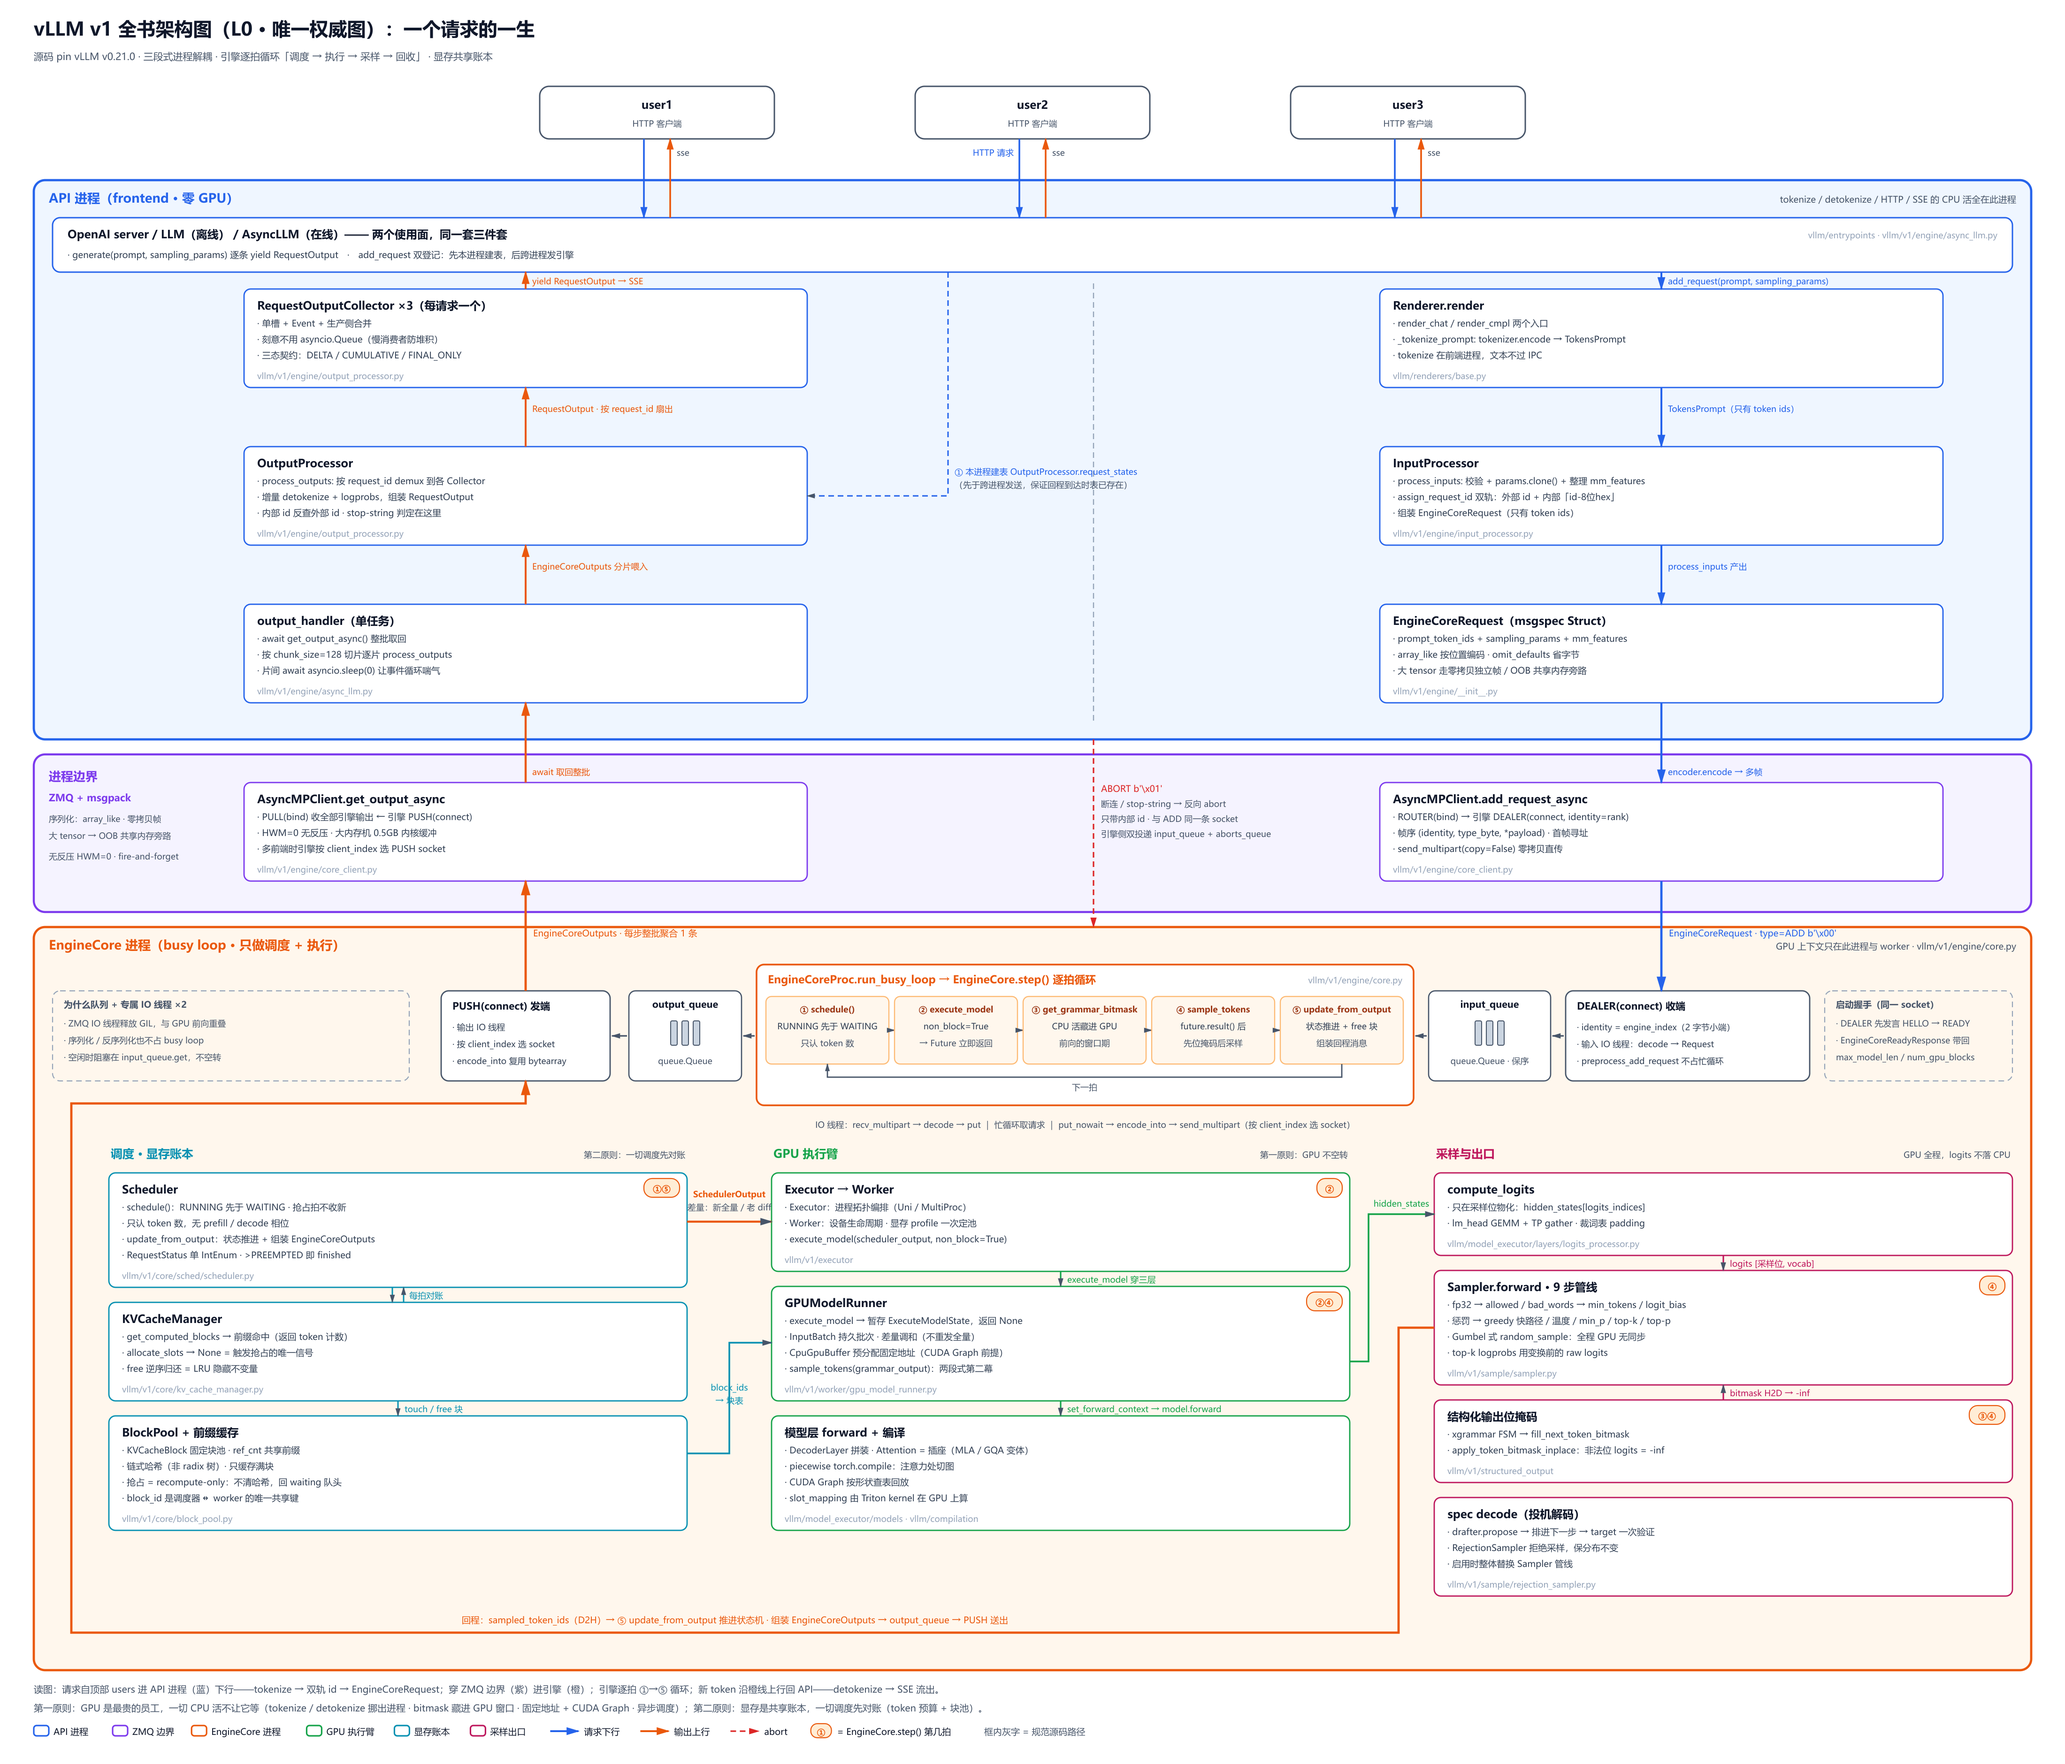
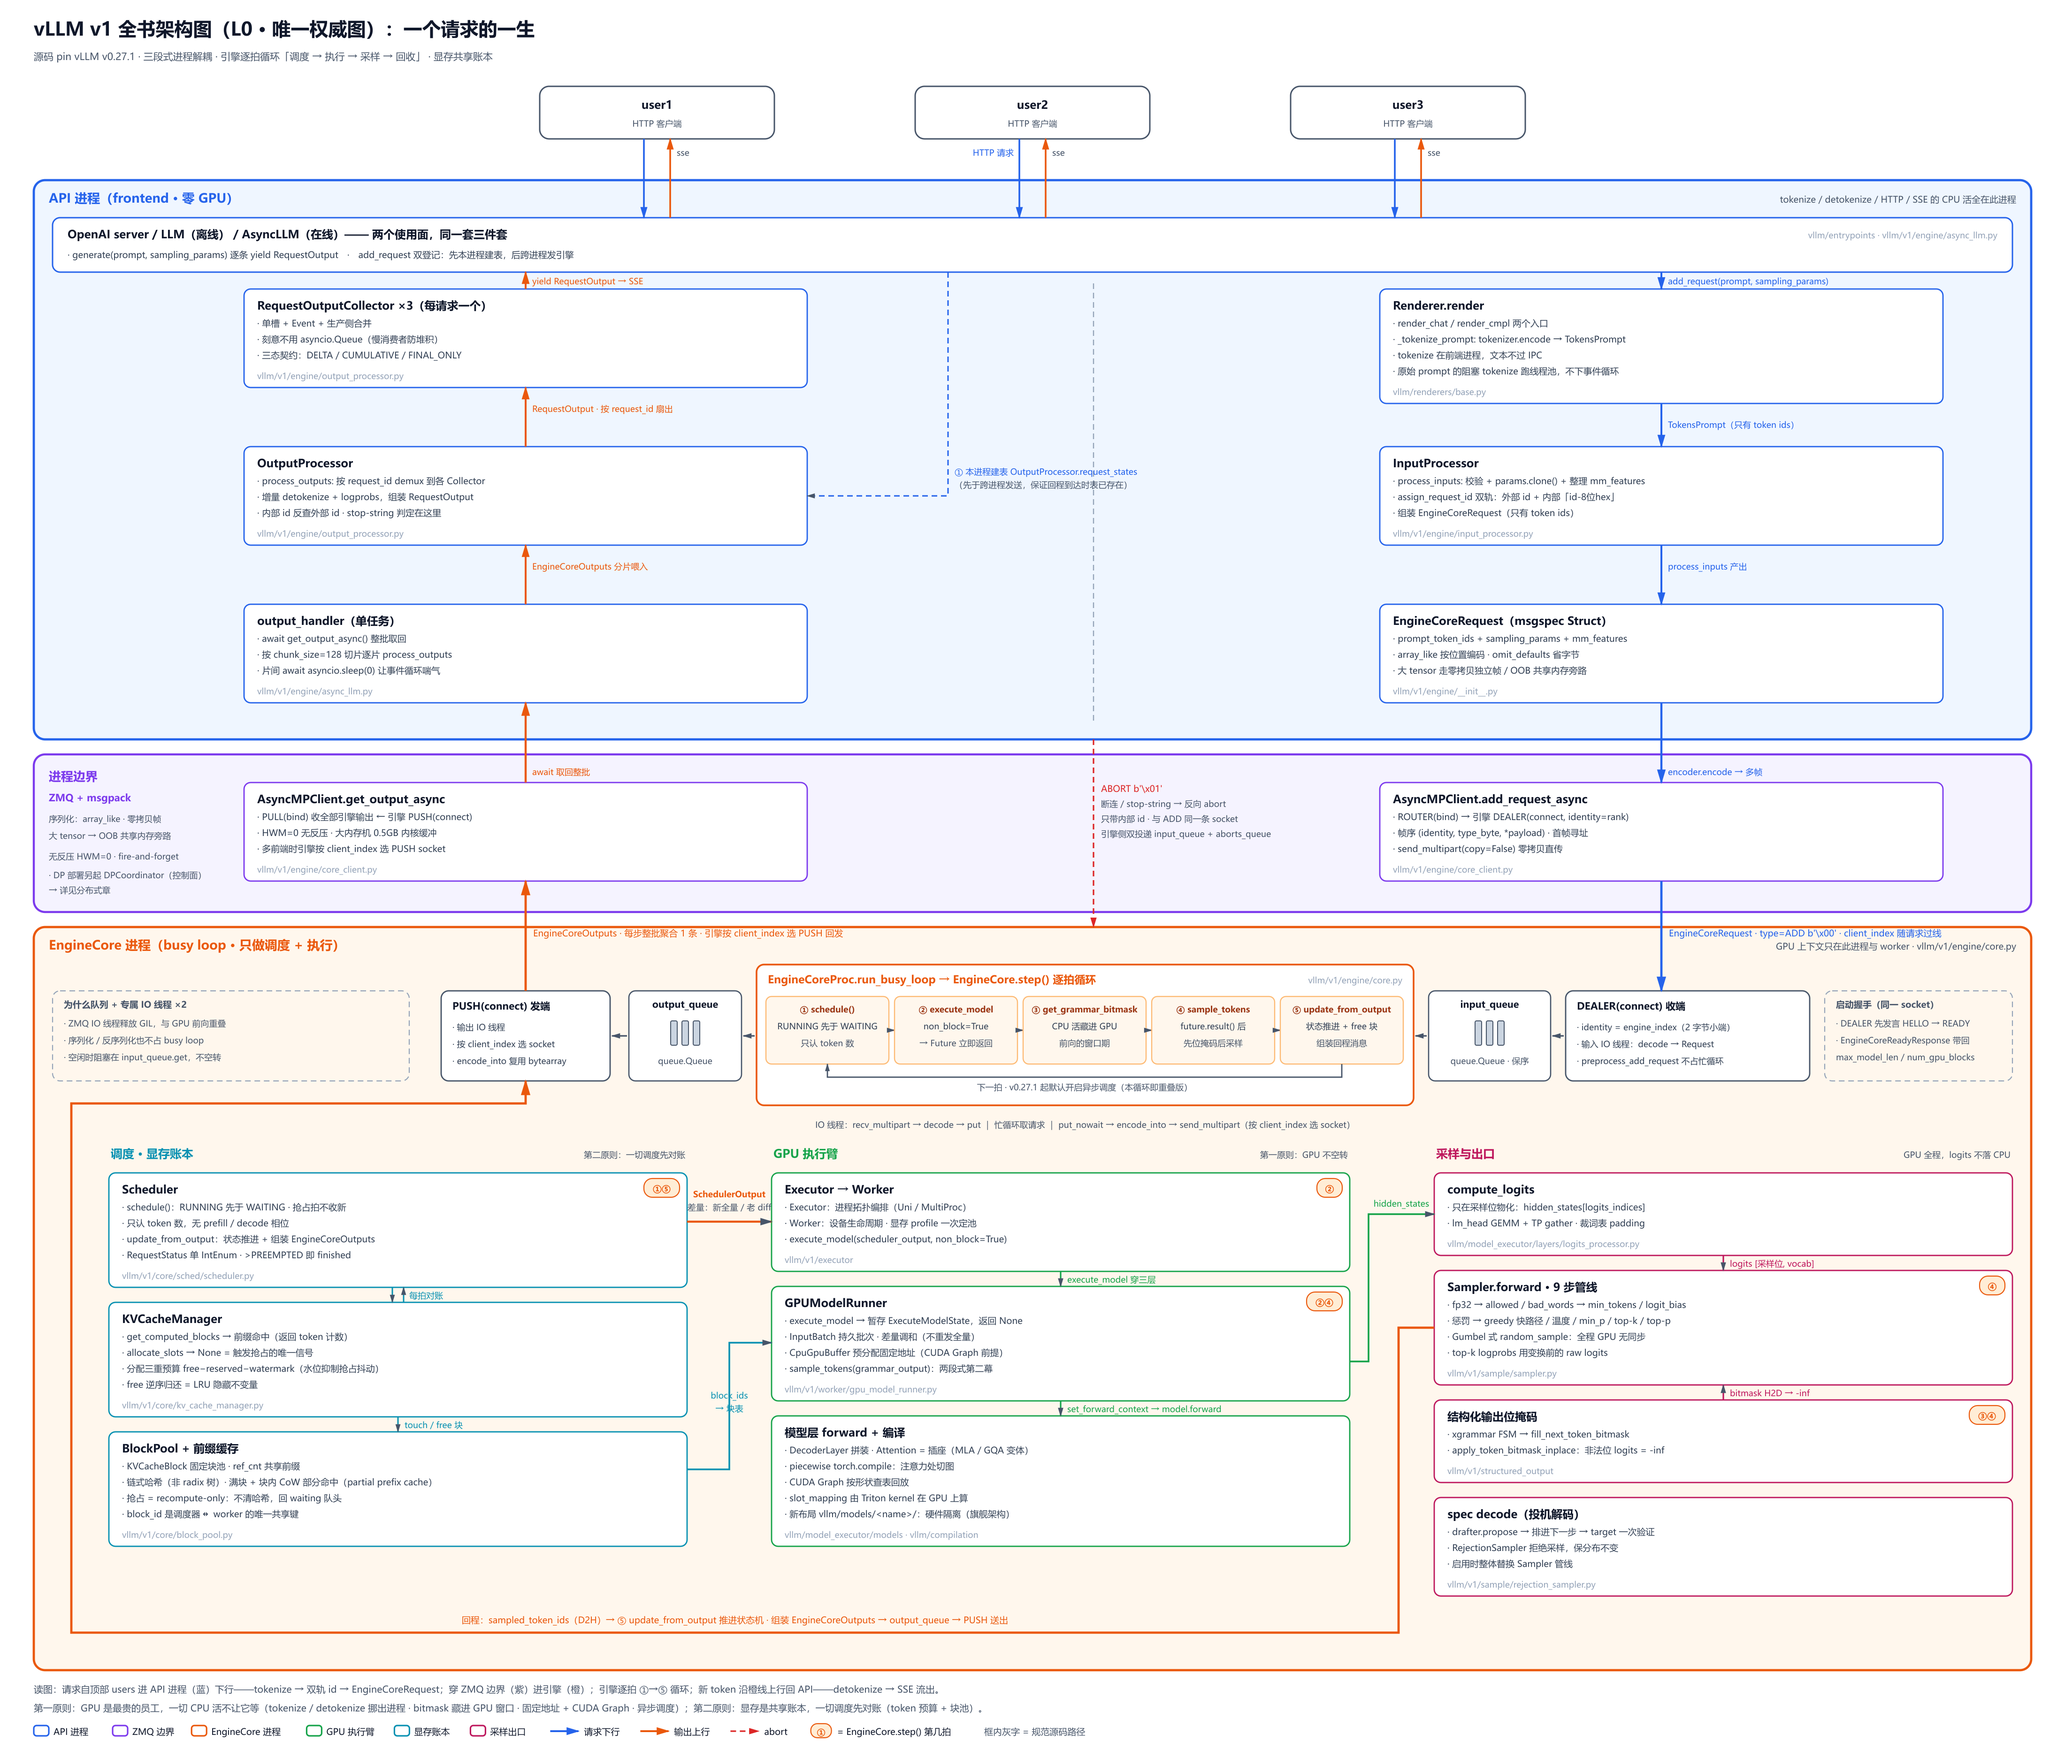
feat(v3 Phase 0 收官): L0 图校订对齐 v0.27.1——fable 执笔,Lead 复核
7 处校订(布局/箭头零改动,只动标注层):
- pin 副标题 v0.21.0→v0.27.1
- Renderer 框补「tokenize 跑线程池不下事件循环」(PR #49608)
- 循环回环标注「v0.27.1 默认重叠版」(异步调度默认开)
- KVCacheManager 补三重预算 free−reserved−watermark
- 前缀缓存口径更新「满块+块内 CoW 部分命中」(旧「只缓存满块」已破)
- 上下行穿带标注补 client_index 契约
- 模型层补 vllm/models/<name>/ 硬件隔离新布局;DP 小字指向分布式章

自查 6 裁片+strict linter 绿+脚手架零泄漏;Lead Read PNG 逐项复核确认。

Phase 0(架构深读)至此按 v0.27.1 完整收官:deepread 6 卡+ARCHITECTURE.md
+L0 图三件套全部对齐新 pin。下一步 Phase 1 展开 pedagogy-plan.json。

diff --git a/instances/vllm/book/cartography/gen_L0.py b/instances/vllm/book/cartography/gen_L0.py
@@ -6,7 +6,7 @@
   每条数据箭头带消息名/方法名；进程边界显式（ROUTER/DEALER、PUSH/PULL、帧序）。
 覆盖全系统：API 进程双泳道 → ZMQ 边界 → EngineCore 进程
   （五拍循环 + 调度·显存账本 + GPU 执行臂 + 采样与出口）。
-所有内容（类名/方法名/数字/契约）取自 ARCHITECTURE.md 与 deepread/*.json（pin v0.21.0）。
+所有内容（类名/方法名/数字/契约）取自 ARCHITECTURE.md 与 deepread/*.json（pin v0.27.1）。
 """
 import sys
 from pathlib import Path
@@ -113,7 +113,7 @@ BXR = MX + CW                  # 内容右缘 2164
 
 # ---------- 标题 ----------
 text(MX, 38, 'vLLM v1 全书架构图（L0 · 唯一权威图）：一个请求的一生', 20, C_TXT, 'start', True)
-text(MX, 64, '源码 pin vLLM v0.21.0 · 三段式进程解耦 · 引擎逐拍循环「调度 → 执行 → 采样 → 回收」 · 显存共享账本',
+text(MX, 64, '源码 pin vLLM v0.27.1 · 三段式进程解耦 · 引擎逐拍循环「调度 → 执行 → 采样 → 回收」 · 显存共享账本',
      10.5, C_MUTE, 'start')
 
 # ---------- 用户行 ----------
@@ -162,7 +162,8 @@ rx = RCX - LANE_W / 2
 _, r1h = comp(rx, LY0, LANE_W, 'Renderer.render',
      ['· render_chat / render_cmpl 两个入口',
       '· _tokenize_prompt: tokenizer.encode → TokensPrompt',
-      '· tokenize 在前端进程，文本不过 IPC'],
+      '· tokenize 在前端进程，文本不过 IPC',
+      '· 原始 prompt 的阻塞 tokenize 跑线程池，不下事件循环'],
      'vllm/renderers/base.py', C_API_S)
 _, r2h = comp(rx, LY0 + PITCH, LANE_W, 'InputProcessor',
      ['· process_inputs: 校验 + params.clone() + 整理 mm_features',
@@ -223,6 +224,8 @@ text(MX + 16, ZY + 50, 'ZMQ + msgpack', 10.5, C_ZMQ_S, 'start', True)
 text(MX + 16, ZY + 72, '序列化：array_like · 零拷贝帧', 9, C_MUTE, 'start', maxw=200, tag='zmq:l3')
 text(MX + 16, ZY + 90, '大 tensor → OOB 共享内存旁路', 9, C_MUTE, 'start', maxw=200, tag='zmq:l4')
 text(MX + 16, ZY + 112, '无反压 HWM=0 · fire-and-forget', 9, C_MUTE, 'start', maxw=200, tag='zmq:l5')
+text(MX + 16, ZY + 132, '· DP 部署另起 DPCoordinator（控制面）', 9, C_MUTE, 'start', maxw=200, tag='zmq:l6')
+text(MX + 16, ZY + 148, '  → 详见分布式章', 9, C_MUTE, 'start', maxw=200, tag='zmq:l7')
 
 BAND_W = 600
 _, zrh = comp(RCX - BAND_W / 2, ZY + 30, BAND_W, 'AsyncMPClient.add_request_async',
@@ -292,10 +295,10 @@ text(PUSH_X + 12, ROW1_Y + 78, '· encode_into 复用 bytearray', 9, '#334155', 
 # ---- 穿越进程边界的箭头（在引擎带与 socket 框之后画：全程可见，端到端贴框边） ----
 # 右：add_request_async 框底 → DEALER 框顶（请求进引擎）
 seg(RCX, ZY + 30 + zrh, RCX, ROW1_Y, C_API_S, 2.4, 'dn')
-alabel(RCX + 8, ZY + ZH + 26, "EngineCoreRequest · type=ADD b'\\x00'", 9.5, C_API_S)
+alabel(RCX + 8, ZY + ZH + 26, "EngineCoreRequest · type=ADD b'\\x00' · client_index 随请求过线", 9.5, C_API_S)
 # 左：PUSH 框顶 → get_output_async 框底（输出回 API 进程）
 seg(LCX, ROW1_Y, LCX, ZY + 30 + zlh, C_ENG_S, 2.4, 'up')
-alabel(LCX + 8, ZY + ZH + 26, 'EngineCoreOutputs · 每步整批聚合 1 条', 9.5, C_ENG_S)
+alabel(LCX + 8, ZY + ZH + 26, 'EngineCoreOutputs · 每步整批聚合 1 条 · 引擎按 client_index 选 PUSH 回发', 9.5, C_ENG_S)
 # ABORT 红虚线（下行，两泳道之间：API 带底边 → EngineCore 带顶边）
 ABX = (LCX + RCX) // 2                     # 1165
 seg(ABX, AY + AH, ABX, EY, C_ABORT, 1.6, 'ab', dash=True)
@@ -341,7 +344,7 @@ for i, (t, s1, s2) in enumerate(chips):
 fb_y = LOOP_Y + 34 + CHIP_H + 14
 parrow([(chip_cx[4], LOOP_Y + 34 + CHIP_H), (chip_cx[4], fb_y), (chip_cx[0], fb_y),
         (chip_cx[0], LOOP_Y + 34 + CHIP_H)], C_MUTE, 1.4, 'std')
-text((chip_cx[0] + chip_cx[4]) / 2, fb_y + 14, '下一拍', 9, C_MUTE, 'middle')
+text((chip_cx[0] + chip_cx[4]) / 2, fb_y + 14, '下一拍 · v0.27.1 起默认开启异步调度（本循环即重叠版）', 9, C_MUTE, 'middle')
 
 # ========== 三列：调度·显存 / GPU 执行臂 / 采样出口 ==========
 CY0 = EY + 232
@@ -374,12 +377,13 @@ A2Y = CY0 + 30 + a1h + 16
 _, a2h = comp(AX, A2Y, COL_W, 'KVCacheManager',
      ['· get_computed_blocks → 前缀命中（返回 token 计数）',
       '· allocate_slots → None = 触发抢占的唯一信号',
+      '· 分配三重预算 free−reserved−watermark（水位抑制抢占抖动）',
       '· free 逆序归还 = LRU 隐藏不变量'],
      'vllm/v1/core/kv_cache_manager.py', C_KV_S)
 A3Y = A2Y + a2h + 16
 _, a3h = comp(AX, A3Y, COL_W, 'BlockPool + 前缀缓存',
      ['· KVCacheBlock 固定块池 · ref_cnt 共享前缀',
-      '· 链式哈希（非 radix 树）· 只缓存满块',
+      '· 链式哈希（非 radix 树）· 满块 + 块内 CoW 部分命中（partial prefix cache）',
       '· 抢占 = recompute-only：不清哈希，回 waiting 队头',
       '· block_id 是调度器 ↔ worker 的唯一共享键'],
      'vllm/v1/core/block_pool.py', C_KV_S)
@@ -408,7 +412,8 @@ _, b3h = comp(BX, B3Y, COL_W, '模型层 forward + 编译',
      ['· DecoderLayer 拼装 · Attention = 插座（MLA / GQA 变体）',
       '· piecewise torch.compile：注意力处切图',
       '· CUDA Graph 按形状查表回放',
-      '· slot_mapping 由 Triton kernel 在 GPU 上算'],
+      '· slot_mapping 由 Triton kernel 在 GPU 上算',
+      '· 新布局 vllm/models/<name>/：硬件隔离（旗舰架构）'],
      'vllm/model_executor/models · vllm/compilation', C_GPU_S)
 seg(BCX, CY0 + 30 + b1h, BCX, B2Y, C_GPU_S, 1.6, 'std')
 alabel(BCX + 7, B2Y - 4, 'execute_model 穿三层', 9, C_GPU_S)
